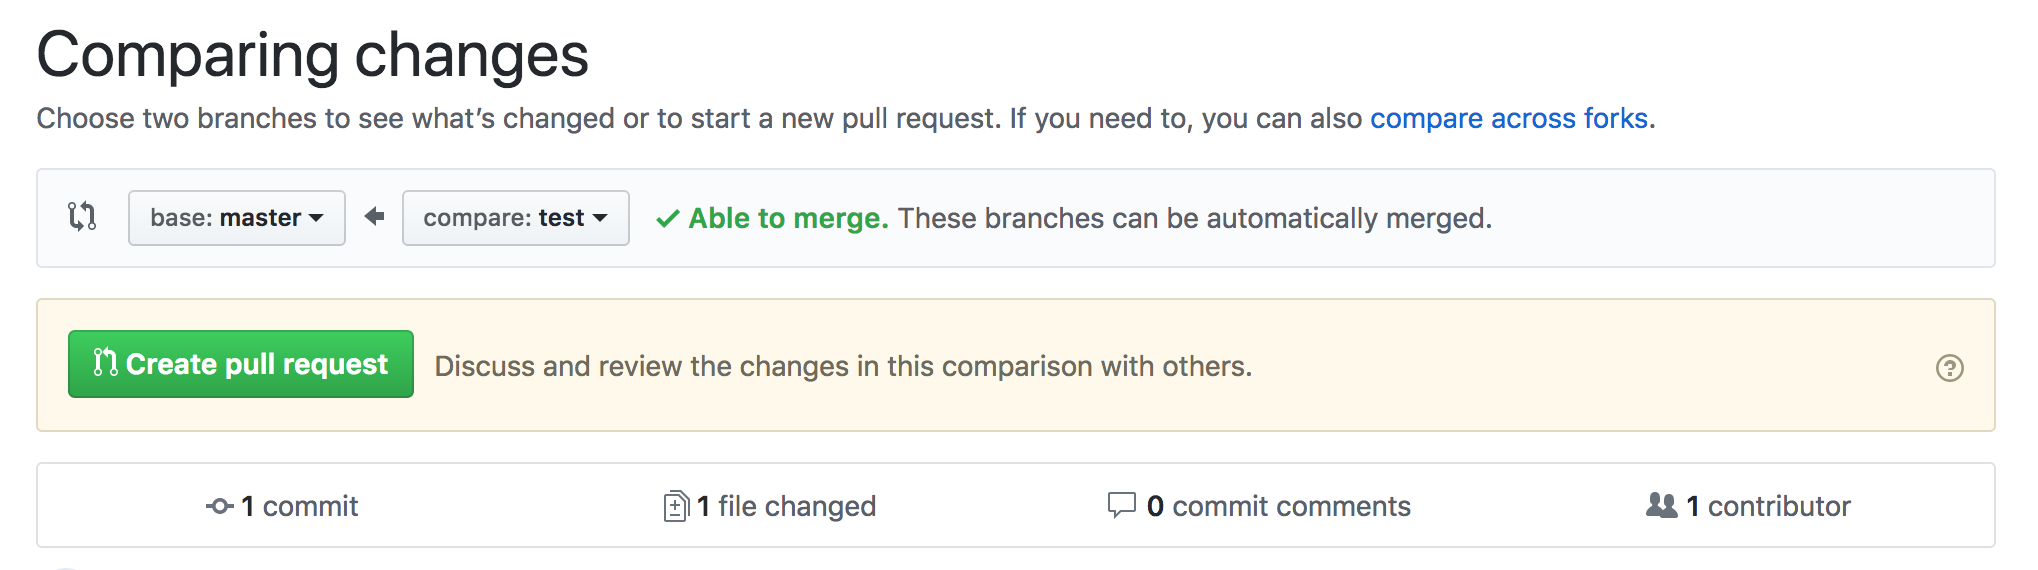
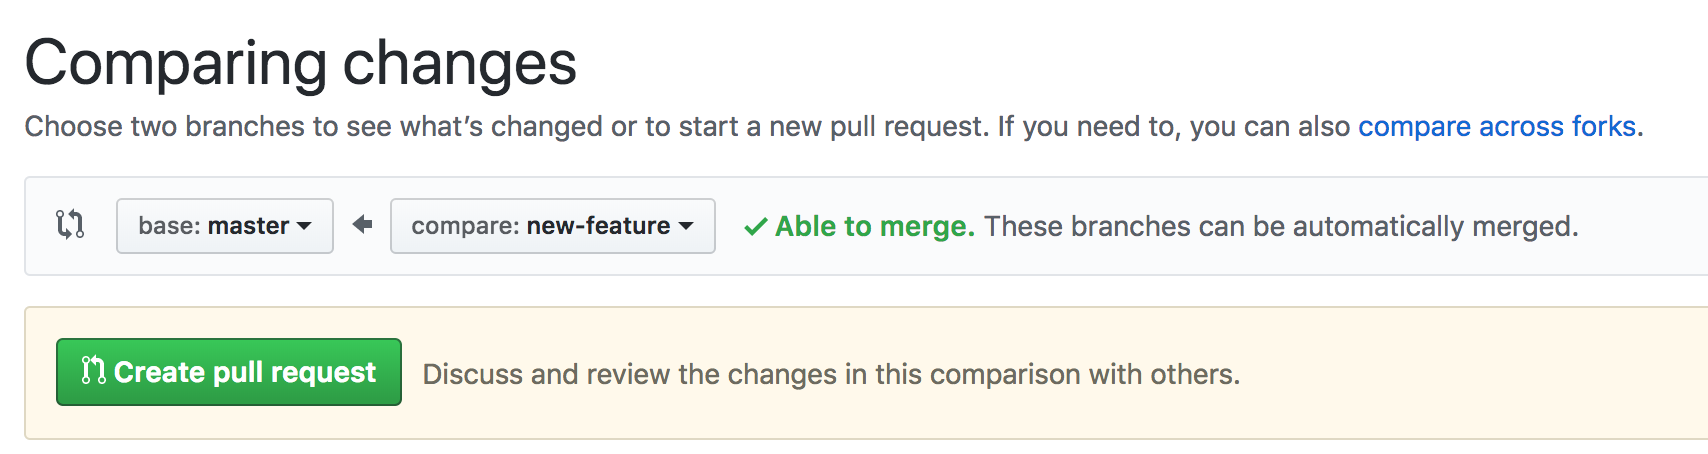
updates

diff --git a/readme.md b/readme.md
@@ -351,4 +351,5 @@ Then we submit a pull request on Github's interface.
 - click on New Pull request
 
 <img src="create_pull_request.png" style="width: 70%;"/>
--
+
+- make sure the left branch(base) is `master` and the right branch(compare) is `new-feature`
